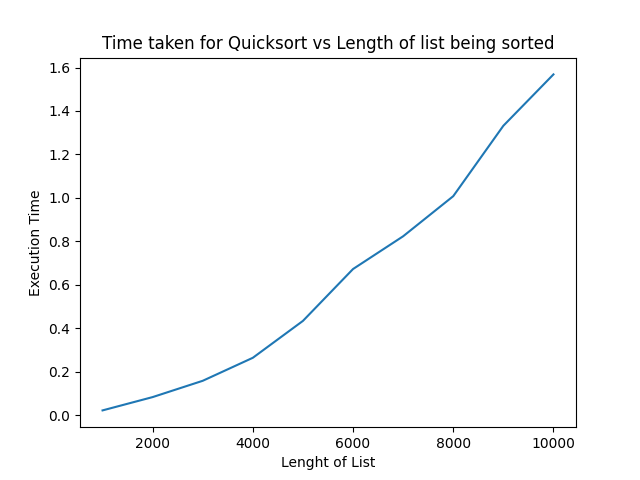
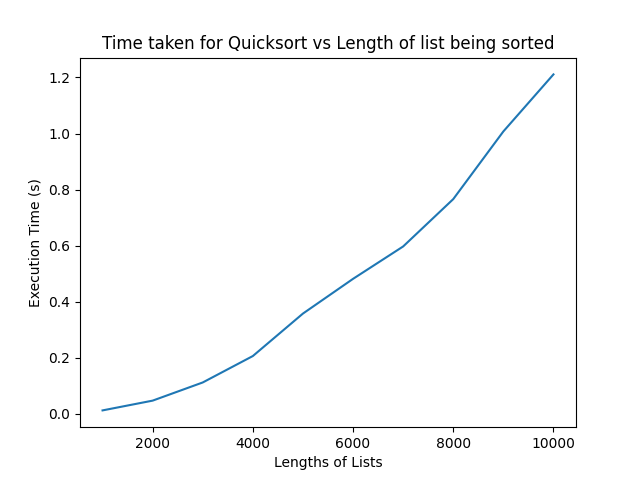
question 4 algorithm completed

diff --git a/Question4/ReplaceAndSort.py b/Question4/ReplaceAndSort.py
@@ -22,6 +22,7 @@ def replaceAndSort(array, deleteItem, insertItem):
             deleteIndex = j
             break 
         j+=1
+
     if (deleteIndex == None):
         print("The element to be deleted does not exist")
         return None
@@ -44,9 +45,8 @@ def replaceAndSort(array, deleteItem, insertItem):
     else:
         array[deleteIndex] = insertItem
 
-
 array = [1,2,5,8,15,20,22]
-deleteItem = 1
-insertItem = 0
+deleteItem = 5
+insertItem = 13
 replaceAndSort(array, deleteItem, insertItem)
 print(array)

diff --git a/Question2/ex2.2.py b/Question2/ex2.2.py
@@ -40,6 +40,6 @@ for tests in data:
 
 plt.plot(listLengths, quicksortTime)
 plt.title("Time taken for Quicksort vs Length of list being sorted")
-plt.xlabel("Length of Lists")
-plt.ylabel("Execution Time")
+plt.xlabel("Lenghts of Lists")
+plt.ylabel("Execution Time (s)")
 plt.show()
